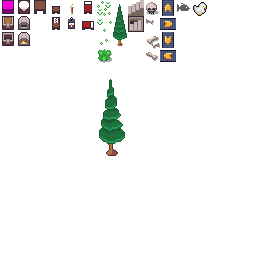
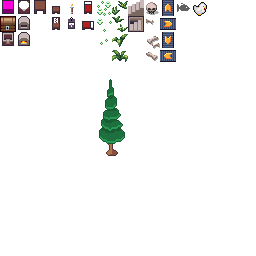
Added flowers

Changed region(s): [[0.375, 0.0, 0.5, 0.25], [0.0, 0.0625, 0.0625, 0.125]]

diff --git a/Sources/Hevadea.Framework/UI/Widget.cs b/Sources/Hevadea.Framework/UI/Widget.cs
@@ -54,6 +54,8 @@ namespace Hevadea.Framework.UI
 
     public class Widget
     {
+        public bool IsEnable { get; set; } = true;
+        public bool IsDisable { get => !IsEnable; set { IsEnable = !value; } }
 
         public float Scale(float val) => val * Rise.Ui.ScaleFactor;
         public int Scale(int val) =>  (int)(val * Rise.Ui.ScaleFactor);
@@ -75,17 +77,28 @@ namespace Hevadea.Framework.UI
         public bool CanGetFocus { get; set; }
         public bool IsFocus { get { return Rise.Ui.FocusWidget == this; } }
         
-
         protected Rectangle Bound => new Rectangle((int)(UnitBound.X * Rise.Ui.ScaleFactor), (int)(UnitBound.Y * Rise.Ui.ScaleFactor), (int)(UnitBound.Width * Rise.Ui.ScaleFactor), (int)(UnitBound.Height * Rise.Ui.ScaleFactor));
         protected Rectangle Host => new Rectangle((int)(UnitHost.X * Rise.Ui.ScaleFactor), (int)(UnitHost.Y * Rise.Ui.ScaleFactor), (int)(UnitHost.Width * Rise.Ui.ScaleFactor), (int)(UnitHost.Height * Rise.Ui.ScaleFactor));
         protected Point Offset => new Point((int)(UnitOffset.X * Rise.Ui.ScaleFactor), (int)(UnitOffset.Y * Rise.Ui.ScaleFactor));
         
-        public virtual void RefreshLayout()
+        public virtual void RefreshLayout() {}
+        public virtual void Update(GameTime gameTime) {}
+        public virtual void Draw(SpriteBatch spriteBatch, GameTime gameTime) { }
+
+        public void Disable() { IsDisable = true; }
+        public void Enable() { IsEnable = true; }
+        public void Toggle() { IsEnable = !IsEnable; }
+
+        public void UpdateInternal(GameTime gameTime)
         {
-            
+            if (IsEnable)
+            {
+                HandleInput();
+                Update(gameTime);
+            }
         }
 
-        public void HandleInput()
+        private void HandleInput()
         {
             if (Rise.Pointing.AreaOver(Bound))
             {
@@ -107,31 +120,18 @@ namespace Hevadea.Framework.UI
                 MouseState = MouseState.None;
             }
         }
-        
-        public void UpdateInternal(GameTime gameTime)
-        {
-            HandleInput();
-            Update(gameTime);
-        }
-
-        public virtual void Update(GameTime gameTime)
-        {
-
-        }
 
         public void DrawIternal(SpriteBatch spriteBatch, GameTime gameTime)
         {
-            Draw(spriteBatch, gameTime);
-            if (Rise.DebugUi)
+            if (IsEnable)
             {
-                spriteBatch.DrawRectangle(Host, Color.Cyan);
-                spriteBatch.DrawRectangle(Bound, Color.Black);
+                Draw(spriteBatch, gameTime);
+                if (Rise.DebugUi)
+                {
+                    spriteBatch.DrawRectangle(Host, Color.Cyan);
+                    spriteBatch.DrawRectangle(Bound, Color.Black);
+                }
             }
-        }
-
-        public virtual void Draw(SpriteBatch spriteBatch, GameTime gameTime)
-        {
-
         }
 
         public Widget RegisterMouseClickEvent(WidgetEventHandler func)

diff --git a/Sources/Hevadea/Scenes/Menus/MenuInGame.cs b/Sources/Hevadea/Scenes/Menus/MenuInGame.cs
@@ -64,20 +64,32 @@ namespace Hevadea.Scenes.Menus
                 UnitOffset = new Point(16, 16)
             };
 
+
+            var minimapButton = new Button
+            {
+                Text = "Map",
+                Origine = Anchor.TopRight,
+                Anchor = Anchor.TopRight,
+                UnitOffset = new Point(-16, 16),
+                IsEnable = true
+            };
+
             var miniMap = new WidgetMinimap(game)
             {
                 UnitBound = new Rectangle(0, 0, 384, 384),
                 Origine = Anchor.TopRight,
                 Anchor = Anchor.TopRight,
-                Padding = new Framework.UI.Padding(32),
                 UnitOffset = new Point(-16, 16)
             };
+
+            miniMap.MouseClick += (sender) => { sender.Disable(); minimapButton.Enable(); };
+            minimapButton.MouseClick += (sender) => { miniMap.Enable(); sender.Disable(); };
 
             Content = new AnchoredContainer
             {
                 Childrens =
                 {
-                    _playerStats, miniMap,
+                    _playerStats, miniMap, minimapButton,
 
                     new Button{ Text = "Inventory", Origine = Anchor.BottomLeft, Anchor = Anchor.BottomLeft, UnitOffset = new Point(16,-16)}
                     .RegisterMouseClickEvent((sender)=>{ Game.CurrentMenu = new PlayerInventoryMenu(Game); })

diff --git a/Sources/Hevadea/Entities/Blueprints/Legacy/EntityFlower.cs b/Sources/Hevadea/Entities/Blueprints/Legacy/EntityFlower.cs
@@ -4,25 +4,24 @@ using Hevadea.Framework.Graphic.SpriteAtlas;
 using Microsoft.Xna.Framework;
 using Microsoft.Xna.Framework.Graphics;
 
-namespace Hevadea.Entities.Blueprints
+namespace Hevadea.Entities.Blueprints.Legacy
 {
-    public class EntityGrass : Entity
+    public class EntityFlower : Entity
     {
         public int Variant { get; set; } = 0;
-        private static Sprite[] _sprites;
+        private static Sprite[] _sprites; 
 
-        public EntityGrass()
+        public EntityFlower()
         {
             SortingOffset = -16;
-
             Variant = Rise.Rnd.Next(0, 3);
 
             if (_sprites == null)
             {
-                _sprites = new Sprite[4];
-                for (int i = 0; i < 4; i++)
+                _sprites = new Sprite[3];
+                for (int i = 0; i < 3; i++)
                 {
-                    _sprites[i] = new Sprite(Ressources.TileEntities, new Point(7, i));
+                    _sprites[i] = new Sprite(Ressources.TileEntities, new Point(6, i));
                 }
             }
 

diff --git a/Sources/Hevadea/Scenes/Widgets/WidgetMinimap.cs b/Sources/Hevadea/Scenes/Widgets/WidgetMinimap.cs
@@ -25,12 +25,13 @@ namespace Hevadea.Scenes.Widgets
             {
                 var map = _game.MainPlayer.Level.Minimap.Texture;
                 var p = _game.MainPlayer.GetTilePosition();
-                
-                var offset = new Point(p.X - UnitHost.Width / 4 / 2, p.Y - UnitHost.Height / 4 / 2);  
-                var rect = new Point(UnitHost.Width / 4, UnitHost.Height / 4);
+
+                var dest = new Padding(Scale(32)).Apply(Host);
+                var offset = new Point(p.X - dest.Width / 4 / 2, p.Y - dest.Height / 4 / 2);  
+                var rect = new Point(dest.Width / 4, dest.Height / 4);
                 var src = new Rectangle(offset, rect);
        
-                spriteBatch.Draw(map, Host, src, Color.White);
+                spriteBatch.Draw(map, dest, src, Color.White);
                 spriteBatch.Draw(Ressources.ImgMapOver, Bound, Color.White);
                 
                 foreach (var w in _game.MainPlayer.Level.Minimap.Waypoints)

diff --git a/Sources/Hevadea/Registry/ENTITIES.cs b/Sources/Hevadea/Registry/ENTITIES.cs
@@ -1,6 +1,7 @@
 using System.Collections.Generic;
 using Hevadea.Entities;
 using Hevadea.Entities.Blueprints;
+using Hevadea.Entities.Blueprints.Legacy;
 using Hevadea.Items;
 
 namespace Hevadea.Registry
@@ -15,6 +16,7 @@ namespace Hevadea.Registry
         public static EntityBlueprint CHIKEN;
 
         public static EntityBlueprint GRASS;
+        public static EntityBlueprint FLOWER;
         public static EntityBlueprint TREE;
 
         public static EntityBlueprint CHEST;
@@ -39,6 +41,7 @@ namespace Hevadea.Registry
             CHIKEN = RegisterEntityBlueprint(new GenericEntityBlueprint<EntityChiken>("chiken"));
 
             // Plants
+            FLOWER = RegisterEntityBlueprint(new GenericEntityBlueprint<EntityFlower>("flower"));
             GRASS = RegisterEntityBlueprint(new GenericEntityBlueprint<EntityGrass>("grass"));
             TREE = RegisterEntityBlueprint(new GenericEntityBlueprint<EntityTree>("tree"));
             

diff --git a/Sources/Hevadea.Framework/UI/Containers/TileContainer.cs b/Sources/Hevadea.Framework/UI/Containers/TileContainer.cs
@@ -9,9 +9,16 @@ namespace Hevadea.Framework.UI.Containers
 
         public override void Layout()
         {
-            if (Childrens.Count == 0) return;
-            var itemWidth = UnitHost.Width / Childrens.Count;
-            var itemHeight = UnitHost.Height / Childrens.Count;
+            var count = 0;
+            foreach (var c in Childrens)
+            {
+                if (c.IsEnable) count++;
+            }
+
+            if (count == 0) return;
+
+            var itemWidth = UnitHost.Width / count;
+            var itemHeight = UnitHost.Height / count;
             var index = 0;
             
             foreach (var c in Childrens)

diff --git a/Sources/Hevadea/Registry/GENERATOR.cs b/Sources/Hevadea/Registry/GENERATOR.cs
@@ -98,6 +98,13 @@ namespace Hevadea.Registry
                                 Threashold = 0.7f,
  
                             },
+                            new PopulateFeature(ENTITIES.FLOWER)
+                            {
+                                Chance = 10,
+                                CanBePlantOn = {TILES.GRASS},
+                                PlacingFunction = new PerlinFunction(1,1,5),
+                                Threashold = 0.5f
+                            },
                             new PopulateFeature(ENTITIES.GRASS)
                             {
                                 Chance = 2,

diff --git a/Sources/Hevadea.Framework/UI/Widgets/Panel.cs b/Sources/Hevadea.Framework/UI/Widgets/Panel.cs
@@ -9,7 +9,7 @@ namespace Hevadea.Framework.UI.Widgets
 
         public override void RefreshLayout()
         {
-            if (Content != null)
+            if (Content != null && Content.IsEnable)
             {
                 Content.UnitBound = UnitHost;
                 Content.RefreshLayout();

diff --git a/Sources/Hevadea.Framework/UI/Containers/FlowContainer.cs b/Sources/Hevadea.Framework/UI/Containers/FlowContainer.cs
@@ -13,6 +13,8 @@ namespace Hevadea.Framework.UI.Containers
 
             foreach (var c in Childrens)
             {
+                if (c.IsDisable) continue;
+
                 switch (Flow)
                 {
                     case FlowDirection.TopToBottom:

diff --git a/Sources/Hevadea.Framework/UI/Containers/DockContainer.cs b/Sources/Hevadea.Framework/UI/Containers/DockContainer.cs
@@ -10,6 +10,8 @@ namespace Hevadea.Framework.UI.Containers
 
             foreach (var c in Childrens)
             {
+                if (c.IsDisable) continue;
+
                 var b = c.UnitBound;
                 switch (c.Dock)
                 {
